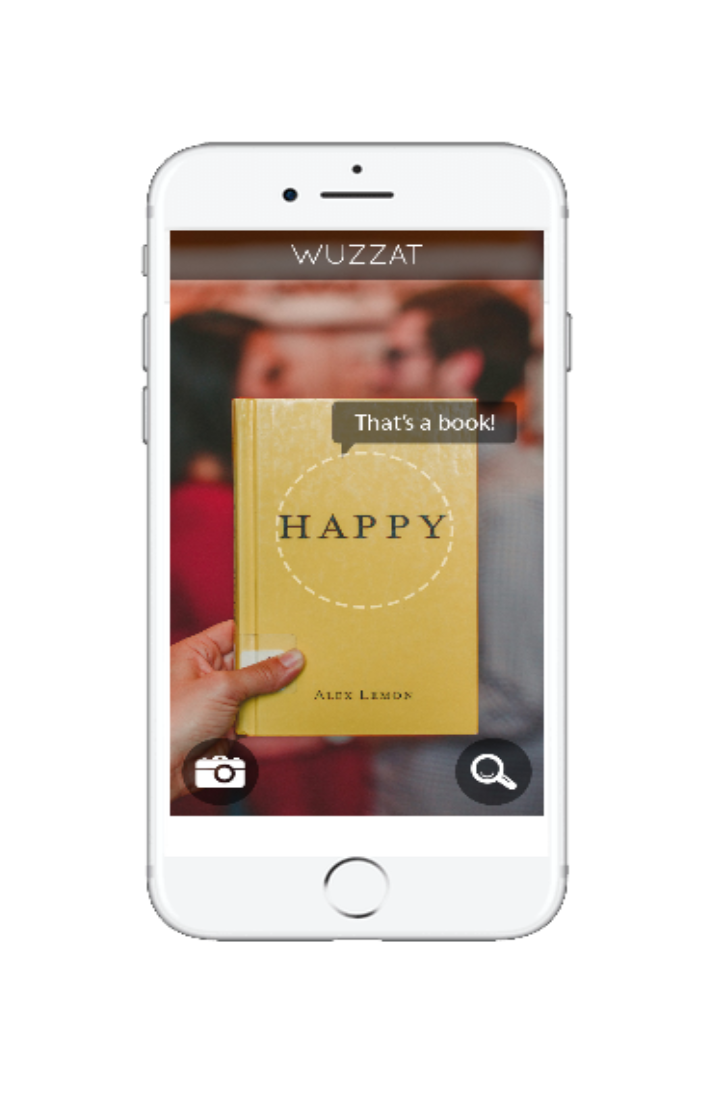
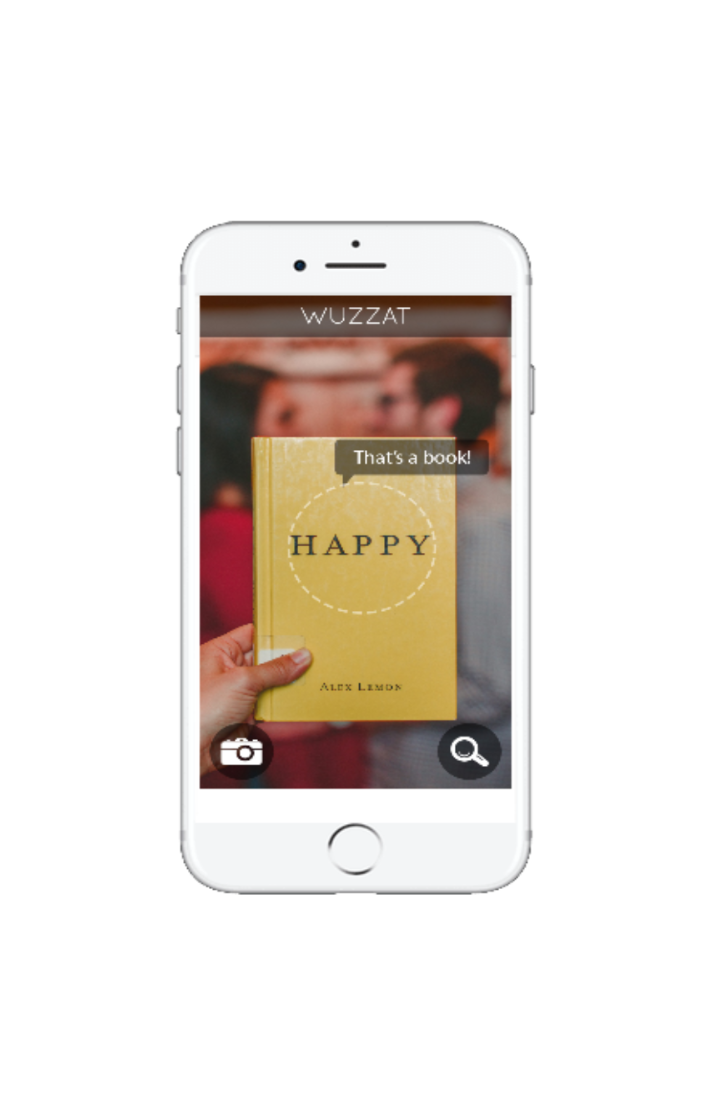
small stuff

Changed region(s): [[0.1833, 0.1232, 0.7944, 0.8623]]

diff --git a/index2.html b/index2.html
@@ -43,25 +43,25 @@
   </nav>
 
   <div class="section">
-    <div class="row newAgeDiv--patterned text-center py-5 px-5">
+    <div class="row newAgeDiv--patterned text-center py-3 px-3">
       <div class="col-12 offset-md-2 col-md-4 align-self-center">
         <div class="row text-center text-md-left ">
           <div
-            class="col-12 col-md-12 pb-5 textDiv--white h3 text-white h1Font">
+            class="col-12 col-md-12 pb-5 textDiv--white h2 text-white h1Font">
             New Age is an
             app landing page
             that
             will help you beautifully showcase
             your new mobile app, or anything else!</div>
-          <div class="col-12 col-md-12 text-center pb-5">
+          <div class="col-12 col-md-12 text-center pb-2">
             <button
               class="btn btn-outline-light btn-sm startButton btnFonts">START
               NOW FOR FREE!</button>
           </div>
         </div>
       </div>
-      <div class="col-12 col-md-6 text-center"><img class="img-fluid"
-          src="/img/mobile2.png" alt="mobile">
+      <div class="col-12 col-md-6 text-center img--mobile"><img
+          class="img-fluid" src="/img/mobile2.png" alt="mobile">
       </div>
     </div>
   </div>
@@ -102,14 +102,14 @@
   </section>
 
   <div class="section">
-    <div class="row bg-warning text-center h1" id="Discover">
-      <div class="col-12 pb-2 discoverDiv h1Font">Discover what all the
+    <div class="row bg-warning text-center " id="Discover">
+      <div class="col-12 pb-2 discoverDiv h1 h1Font">Discover what all the
         buzz is about!</div>
       <div class="col-12 pb-2 h5 h2footerFonts">Our app is available on any
         mobile device!
         Download
         now to get started!</div>
-      <div class="col-12 col-md-6 text-center text-md-right"><a
+      <div class="col-12 col-md-6 text-center text-md-right pb-3"><a
           href="https://play.google.com/store"><img
             src="/img/google-play-badge.svg" alt="googleplay"></a></div>
       <div class="col-12 col-md-6 text-center text-md-left"><a
@@ -119,38 +119,41 @@
   </div>
 
   <div class="section">
-    <div class="row text-center" id="Features">
-      <div class="col-12 h1Font h2 pt-5 px-5">Unlimited Features,
-        Unlimited Fun</div>
-      <div class="col-12 h2footerFonts h5">Check out what you can do with this
-        app theme!</div>
-      <div class="col-12 col-md-6 text-center"><img class="img-fluid"
-          src="/img/mobile2.png" alt="mobile"></div>
-      <div class="col-12 col-md-6 align-self-center ">
-        <div class="row text-center h4 ">
-          <div class="col-12 col-md-6"><i class="fa fa-mobile fa-3x p-3"
-              aria-hidden="true"></i>
-            <div class="h1Font h2">Device Mockups</div>
-            <div class="h5 h2footerFonts">Ready to use HTML/CSS device
-              mockups, no Photoshop required!</div>
-          </div>
-          <div class="col-12 col-md-6"><i class="fa fa-camera fa-3x p-3 "
-              aria-hidden="true"></i>
-            <div class="h1Font h2">Flexible Use</div>
-            <div class="h5 h2footerFonts">Put an image, video, animation, or
-              anything else in the screen!</div>
-          </div>
-          <div class="col-12 col-md-6"><i class="fa fa-gift fa-3x p-3 "
-              aria-hidden="true"></i>
-            <div class="h1Font h2">Free to Use</div>
-            <div class="h5 h2footerFonts">As always, this theme is free to
-              download and use for any purpose!</div>
-          </div>
-          <div class="col-12 col-md-6"><i class="fa fa-unlock-alt fa-3x p-3 "
-              aria-hidden="true"></i>
-            <div class="h1Font h2">Open Source</div>
-            <div class="h5 h2footerFonts">Since this theme is MIT licensed, you
-              can use it commercially!</div>
+    <div class="container">
+      <div class="row text-center" id="Features">
+        <div class="col-12 h1Font h2 pt-5 px-5">Unlimited Features,
+          Unlimited Fun</div>
+        <div class="col-12 h2footerFonts h5">Check out what you can do with this
+          app theme!</div>
+        <div class="col-12 col-md-6 text-center img--mobile"><img
+            class="img-fluid" src="/img/mobile2.png" alt="mobile"></div>
+        <div class="col-12 col-md-6 align-self-center ">
+          <div class="row text-center h4 ">
+            <div class="col-12 col-md-6"><i class="fa fa-mobile fa-2x p-3"
+                aria-hidden="true"></i>
+              <div class="h1Font h4">Device Mockups</div>
+              <div class="h5 h2footerFonts">Ready to use HTML/CSS device
+                mockups, no Photoshop required!</div>
+            </div>
+            <div class="col-12 col-md-6"><i class="fa fa-camera fa-2x p-3 "
+                aria-hidden="true"></i>
+              <div class="h1Font h4">Flexible Use</div>
+              <div class="h5 h2footerFonts">Put an image, video, animation, or
+                anything else in the screen!</div>
+            </div>
+            <div class="col-12 col-md-6"><i class="fa fa-gift fa-2x p-3 "
+                aria-hidden="true"></i>
+              <div class="h1Font h4">Free to Use</div>
+              <div class="h5 h2footerFonts">As always, this theme is free to
+                download and use for any purpose!</div>
+            </div>
+            <div class="col-12 col-md-6"><i class="fa fa-unlock-alt fa-2x p-3 "
+                aria-hidden="true"></i>
+              <div class="h1Font h4">Open Source</div>
+              <div class="h5 h2footerFonts">Since this theme is MIT licensed,
+                you
+                can use it commercially!</div>
+            </div>
           </div>
         </div>
       </div>
@@ -161,14 +164,14 @@
     <div class="row p-4" id="StopWaiting">
       <div class="col align-self-center">
         <div class="row">
-          <div class="h1Font h1 offset-1 col-7 text-white nofilt">Stop waiting.
+          <div class="h1Font h1 offset-2 col-7 text-white nofilt">Stop waiting.
           </div>
-          <div class="h1Font h1  offset-1 col-7 text-white">
+          <div class="h1Font h1 pb-5 offset-2 col-7 text-white">
             Start building.</div>
         </div>
         <div class="row">
 
-          <div class="col-7 offset-1"><button class="btn btn-outline-light btn-sm 
+          <div class="col-7 offset-2"><button class="btn btn-outline-light btn-sm 
             startButton btnFonts">LET'S GET STARTED</button></div>
         </div>
       </div>
@@ -177,13 +180,14 @@
       <div class=" col-12 h2footerFonts h2">We <i class="fa fa-heart"
           aria-hidden="true"></i> new friends!</div>
       <div class=" col-12">
-        <a href="https://twitter.com/"><i class="fa fa-twitter h2 p-2 socMed-bg"
-            data-toggle="tooltip" title="Twitter" aria-hidden="true"></i></a>
+        <a href="https://twitter.com/"><i
+            class="fa fa-twitter fa-3x h2 p-2 socMed-bg" data-toggle="tooltip"
+            title="Twitter" aria-hidden="true"></i></a>
         <a href="https://www.facebook.com/"><i
-            class="fa fa-facebook-square p-2 h2 socMed-bg" data-toggle="tooltip"
-            title="Facebook" aria-hidden="true"></i></a>
+            class="fa fa-facebook-square p-2 fa-3x h2 socMed-bg"
+            data-toggle="tooltip" title="Facebook" aria-hidden="true"></i></a>
         <a href="https://myaccount.google.com/intro"><i
-            class="fa fa-google-plus-official p-2 h2 socMed-bg"
+            class="fa fa-google-plus-official p-2 fa-3x h2 socMed-bg"
             data-toggle="tooltip" title="Google+" aria-hidden="true"></i></a>
       </div>
     </div>

diff --git a/js/main2.js b/js/main2.js
@@ -2,23 +2,20 @@ $(window).on('scroll', function scroller() {
   const y = $(window).scrollTop();
   if (y === 0) {
     $('.navbar').css('background-color', 'transparent');
-    $('.SB--yellow').css('color', '#fdcc52');
-    $('#Cont,#Down,#Feat').css('color', '#FFF');
+    $('.SB--yellow,#Cont,#Down,#Feat').css('color', '#fdcc52');
+    $('.SB--yellow,#Cont,#Down,#Feat').hover(function x() {
+      $(this).css('color', '#FFF')
+    }, function y() {
+      $(this).css('color', '#fdcc52')
+    })
   } else {
     $('.navbar').css('background-color', '#FFF')
     $('.SB--yellow,#Cont,#Down,#Feat').css('color', '#636363');
   }
 });
 
-function hoverfunc(inColor, outColor) {
-  hover(function () {
-    $(this).css('color', inColor)
-  }, function () {
-    $(this).css('color', outColor)
-  });
-}
 
-//$('.socMed-bg').tooltip();
+
 
 $('#Privacy').on('shown.bs.modal');
 $('#Terms').on('shown.bs.modal');

diff --git a/css/style.css b/css/style.css
@@ -6,25 +6,19 @@ html {
   scroll-behavior: smooth;
 }
 
-.SB--yellow {
-  color: #fdcc52;
-}
-
+.SB--yellow,
 #Feat,
 #Down,
 #Cont {
-  color: #FFF;
+  color: #fdcc52;
 }
 
-.SB--yellow:hover {
-  color: #FFF;
-  cursor: pointer;
-}
 
+.SB--yellow:hover,
 #Feat:hover,
 #Down:hover,
 #Cont:hover {
-  color: #fdcc52;
+  color: #FFF;
   cursor: pointer;
 }
 
@@ -50,7 +44,7 @@ html {
 }
 
 #Discover {
-  padding: 20% 10%;
+  padding: 10% 10%;
 }
 
 .startButton {
@@ -117,4 +111,12 @@ html {
 
 .links:hover {
   color: #fdcc52;
+}
+
+.img--mobile {
+  display: block;
+  max-width: 500px;
+  max-height: 700px;
+  width: auto;
+  height: auto;
 }
